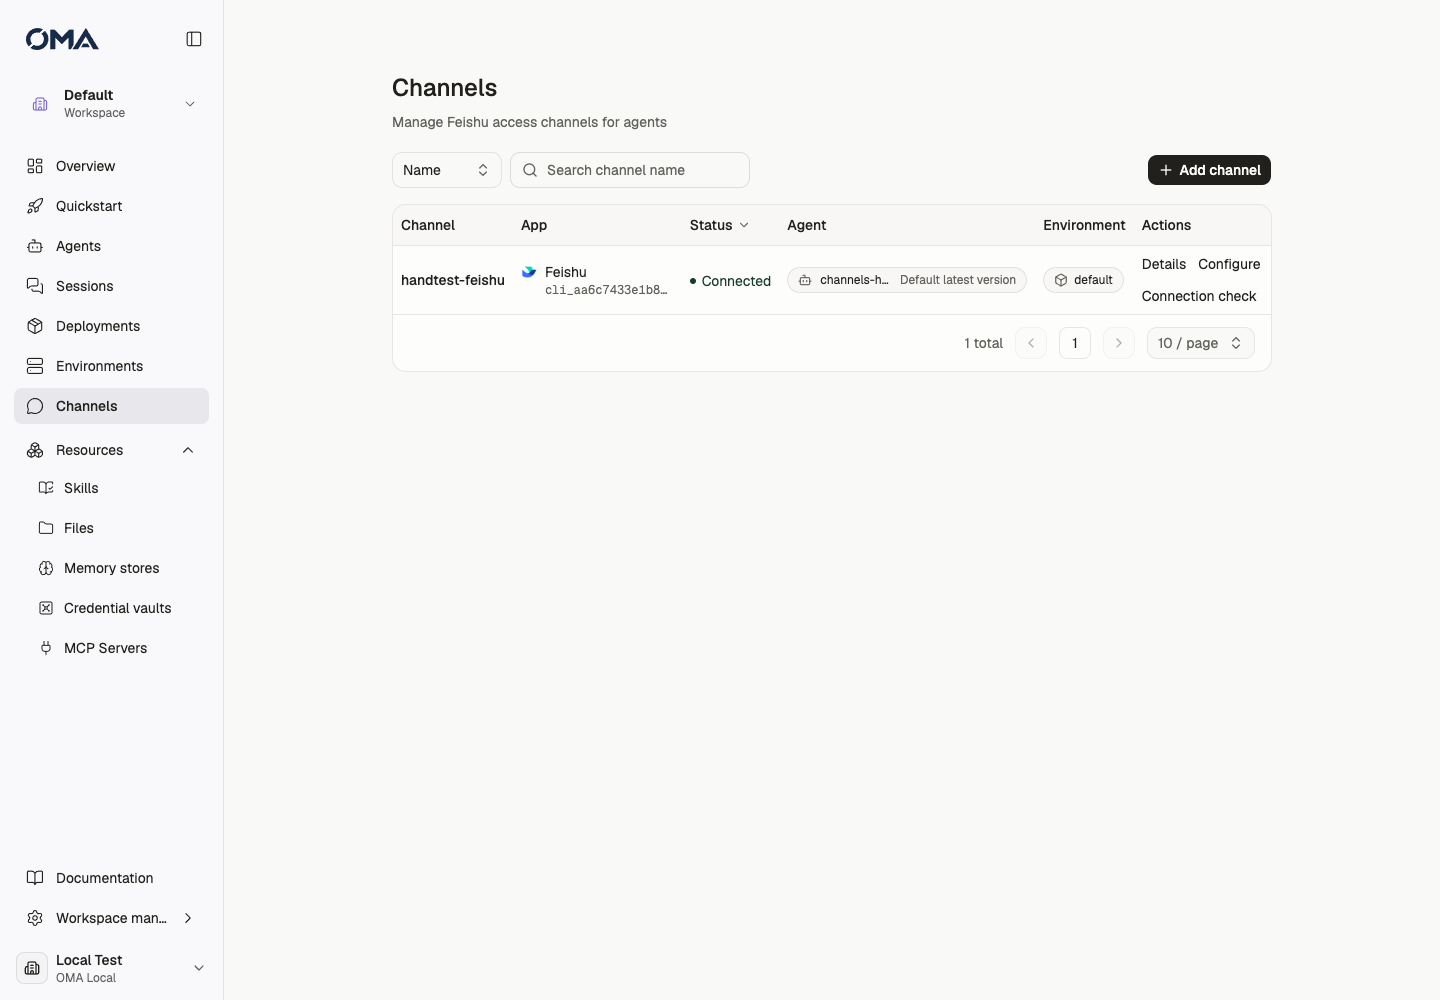
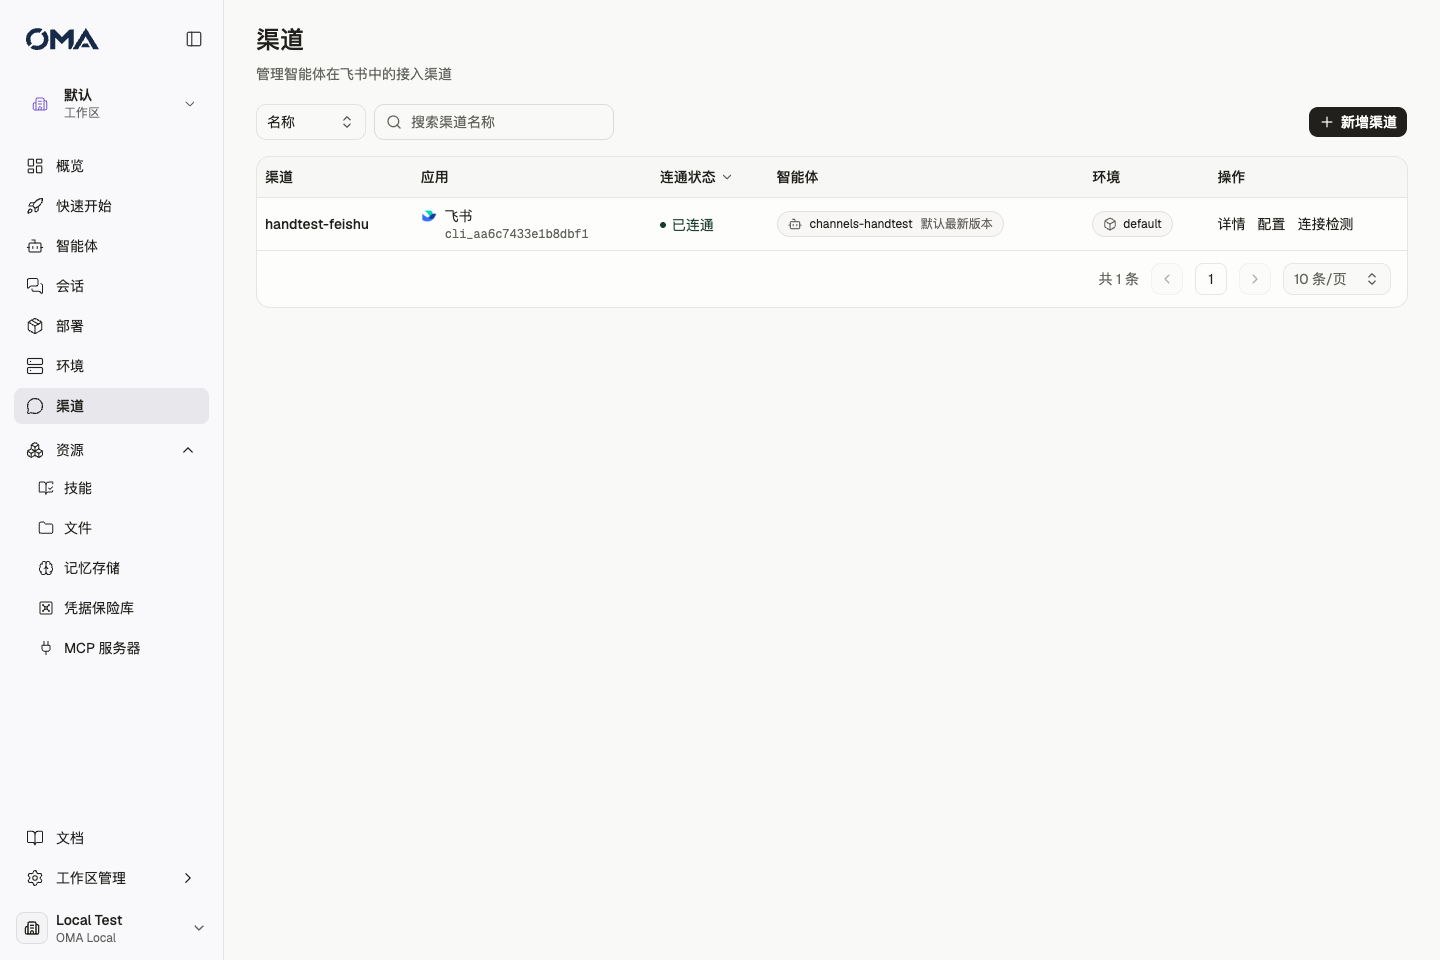
docs: 重拍渠道宽布局验收截图
渠道列表/详情/会话管理改为与部署、环境同宽后，替换 handtest 截图并更新 README。

diff --git a/docs/acceptance/handtest-channels-20261110/README.md b/docs/acceptance/handtest-channels-20261110/README.md
@@ -7,12 +7,13 @@ Local real-device check for PR #624 / lark-channel session metadata.
 - Feishu app: `cli_aa6c7433e1b8dbf1` (验收 Bot C2 20261101)
 - Agent: `channels-handtest` / `agent_oKzV3sWkIy5LT3hkLwcTG9t4`
 - Channel: `handtest-feishu` / `channel_c87a04e6-97a7-4431-9c6e-aa660abc7936`
+- OMA console login (SMTP 未配置，任意非空 OTP): `test@oma.ai`
 
 Screenshots:
 - `01-channels-list.png`
 - `02-channel-detail.png`
 - `03-channel-sessions.png`
 
-`01-channels-list.png` 是改宽之前的列表：页面套在控制台 `max-w-[928px]` 居中壳里，表格和筛选被挤在中间。随后渠道列表、详情和向导改成与部署、环境相同的宽页面（`px-6 py-6 lg:px-8`），不再另加居中窄容器。这三张图没有重拍。
+布局说明：渠道列表 / 详情 / 会话管理已与部署、环境页一致，走控制台宽页面（约 `max-w-[1440px]` + `px-6 py-6 lg:px-8`），不再套居中窄卡片。以上三张为改宽后重拍。
 
 Session metadata evidence: `session-metadata.json`
